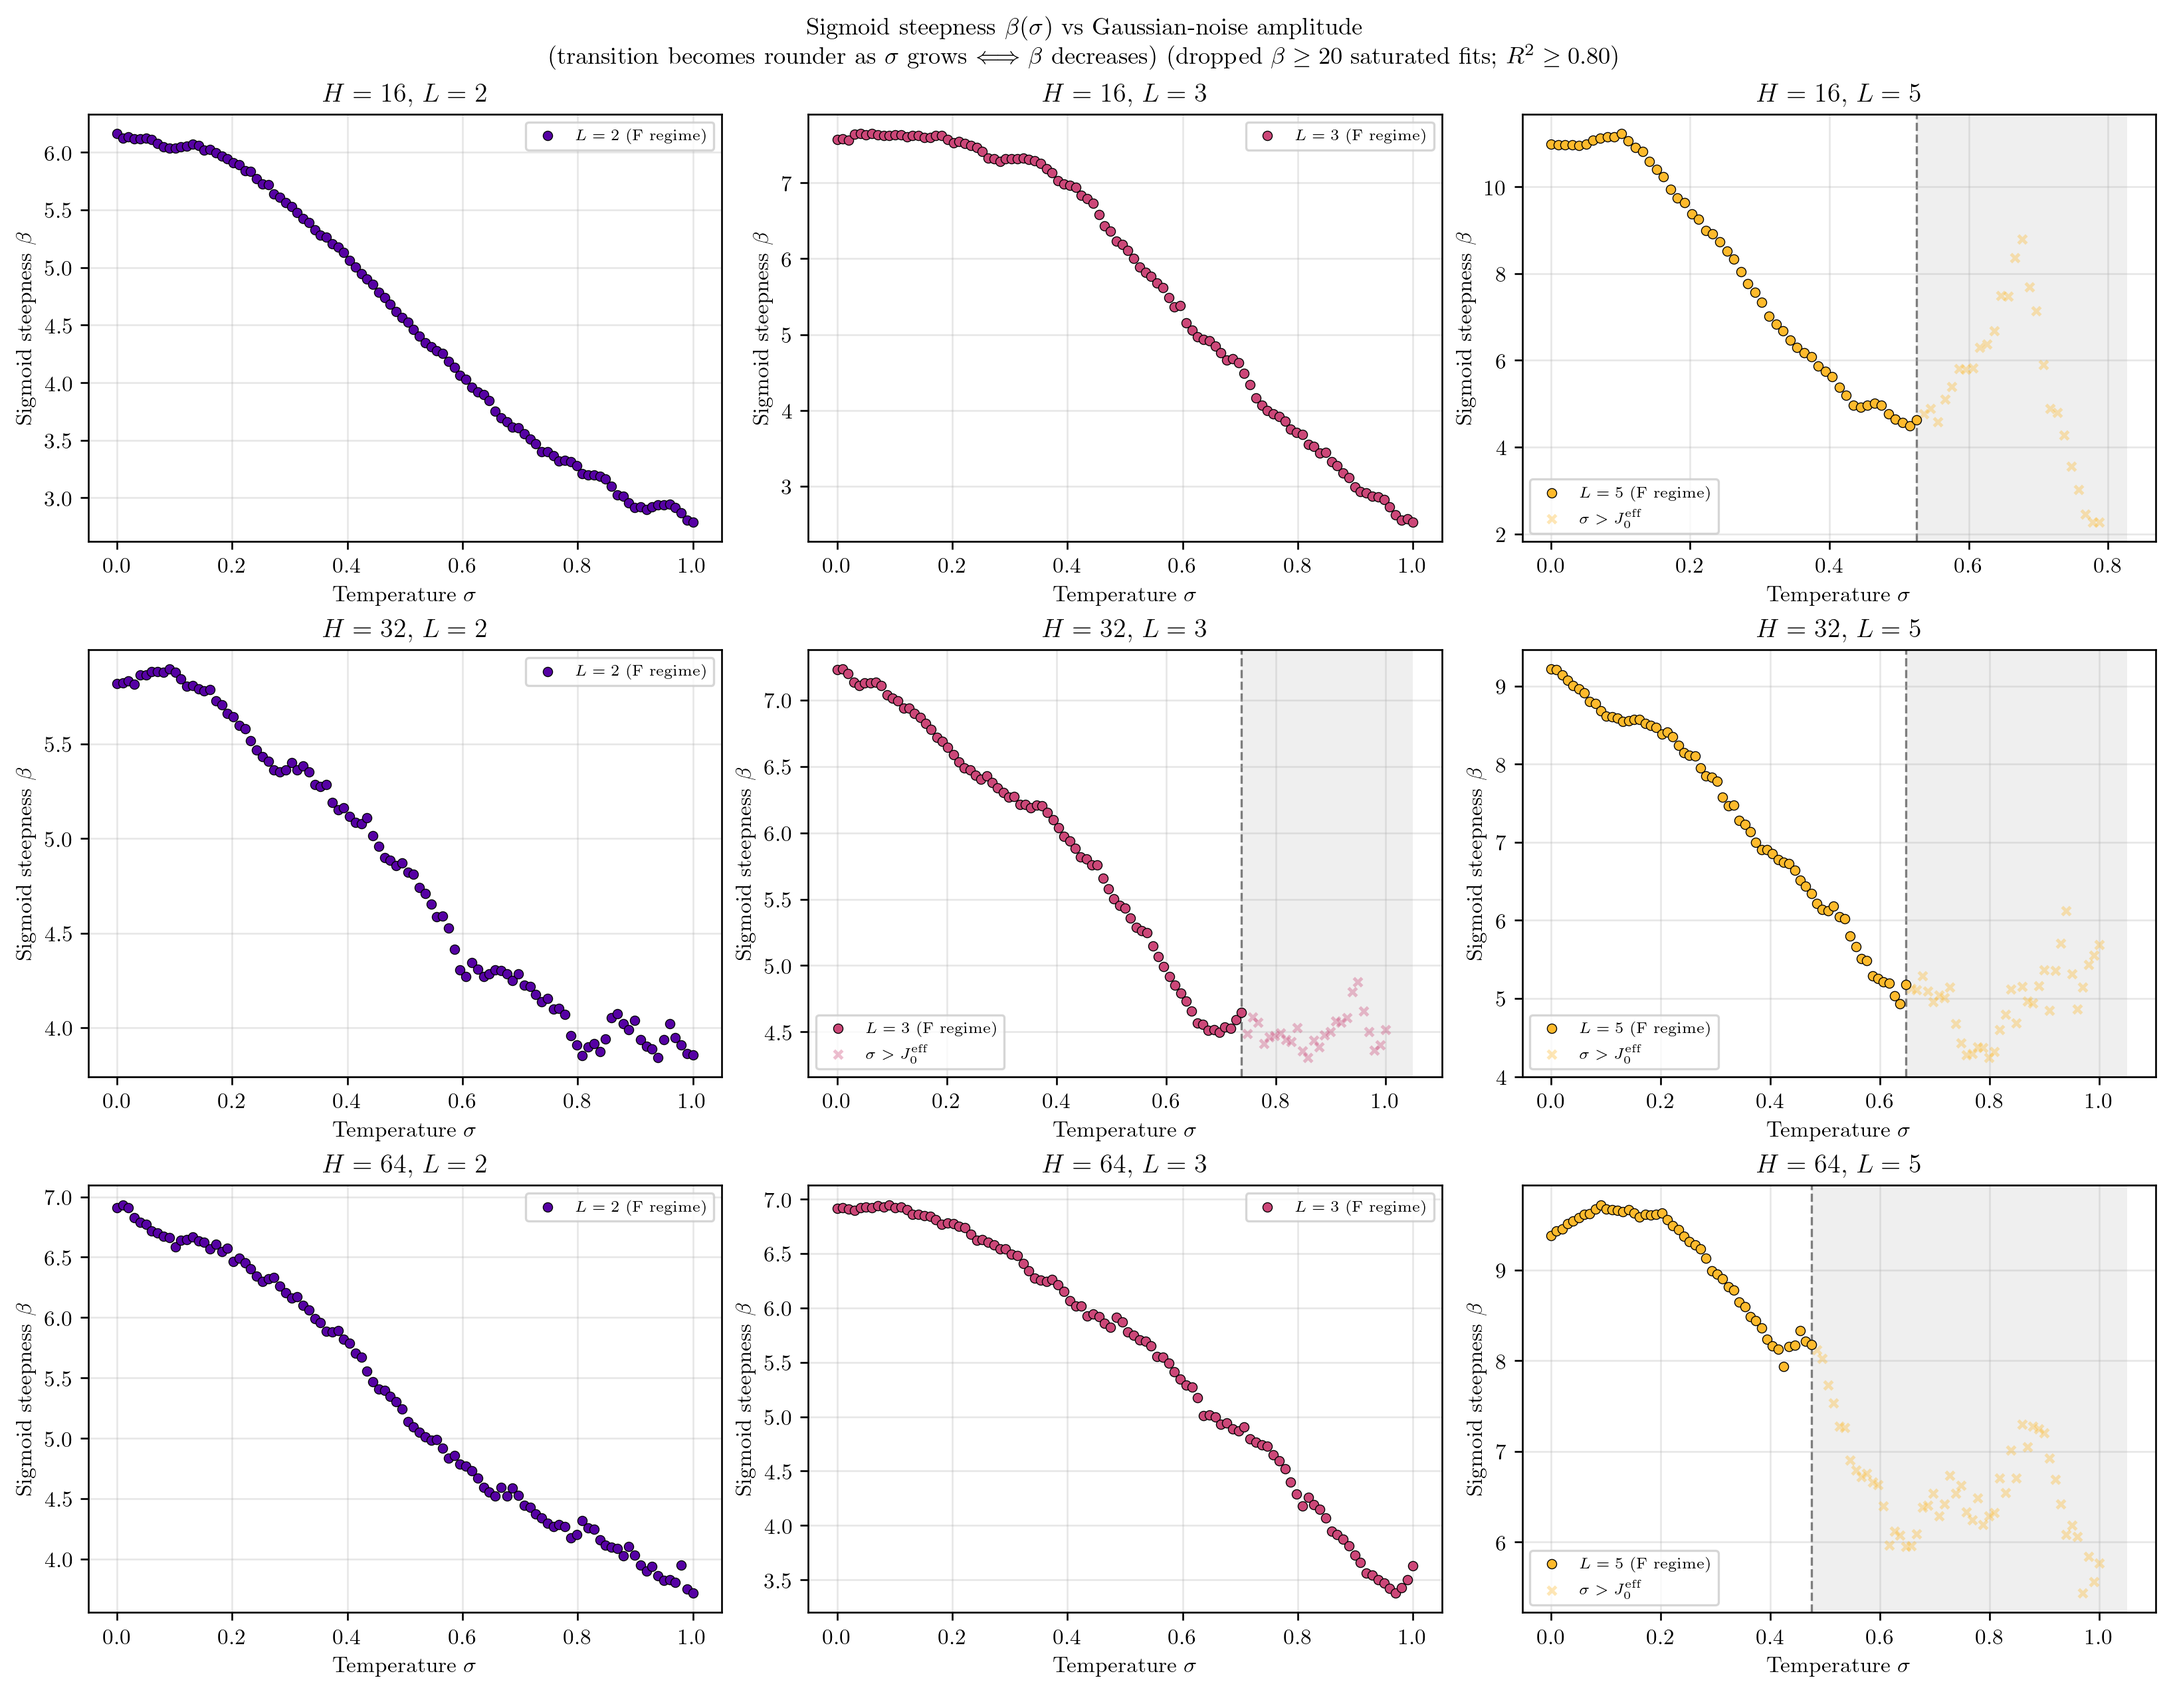
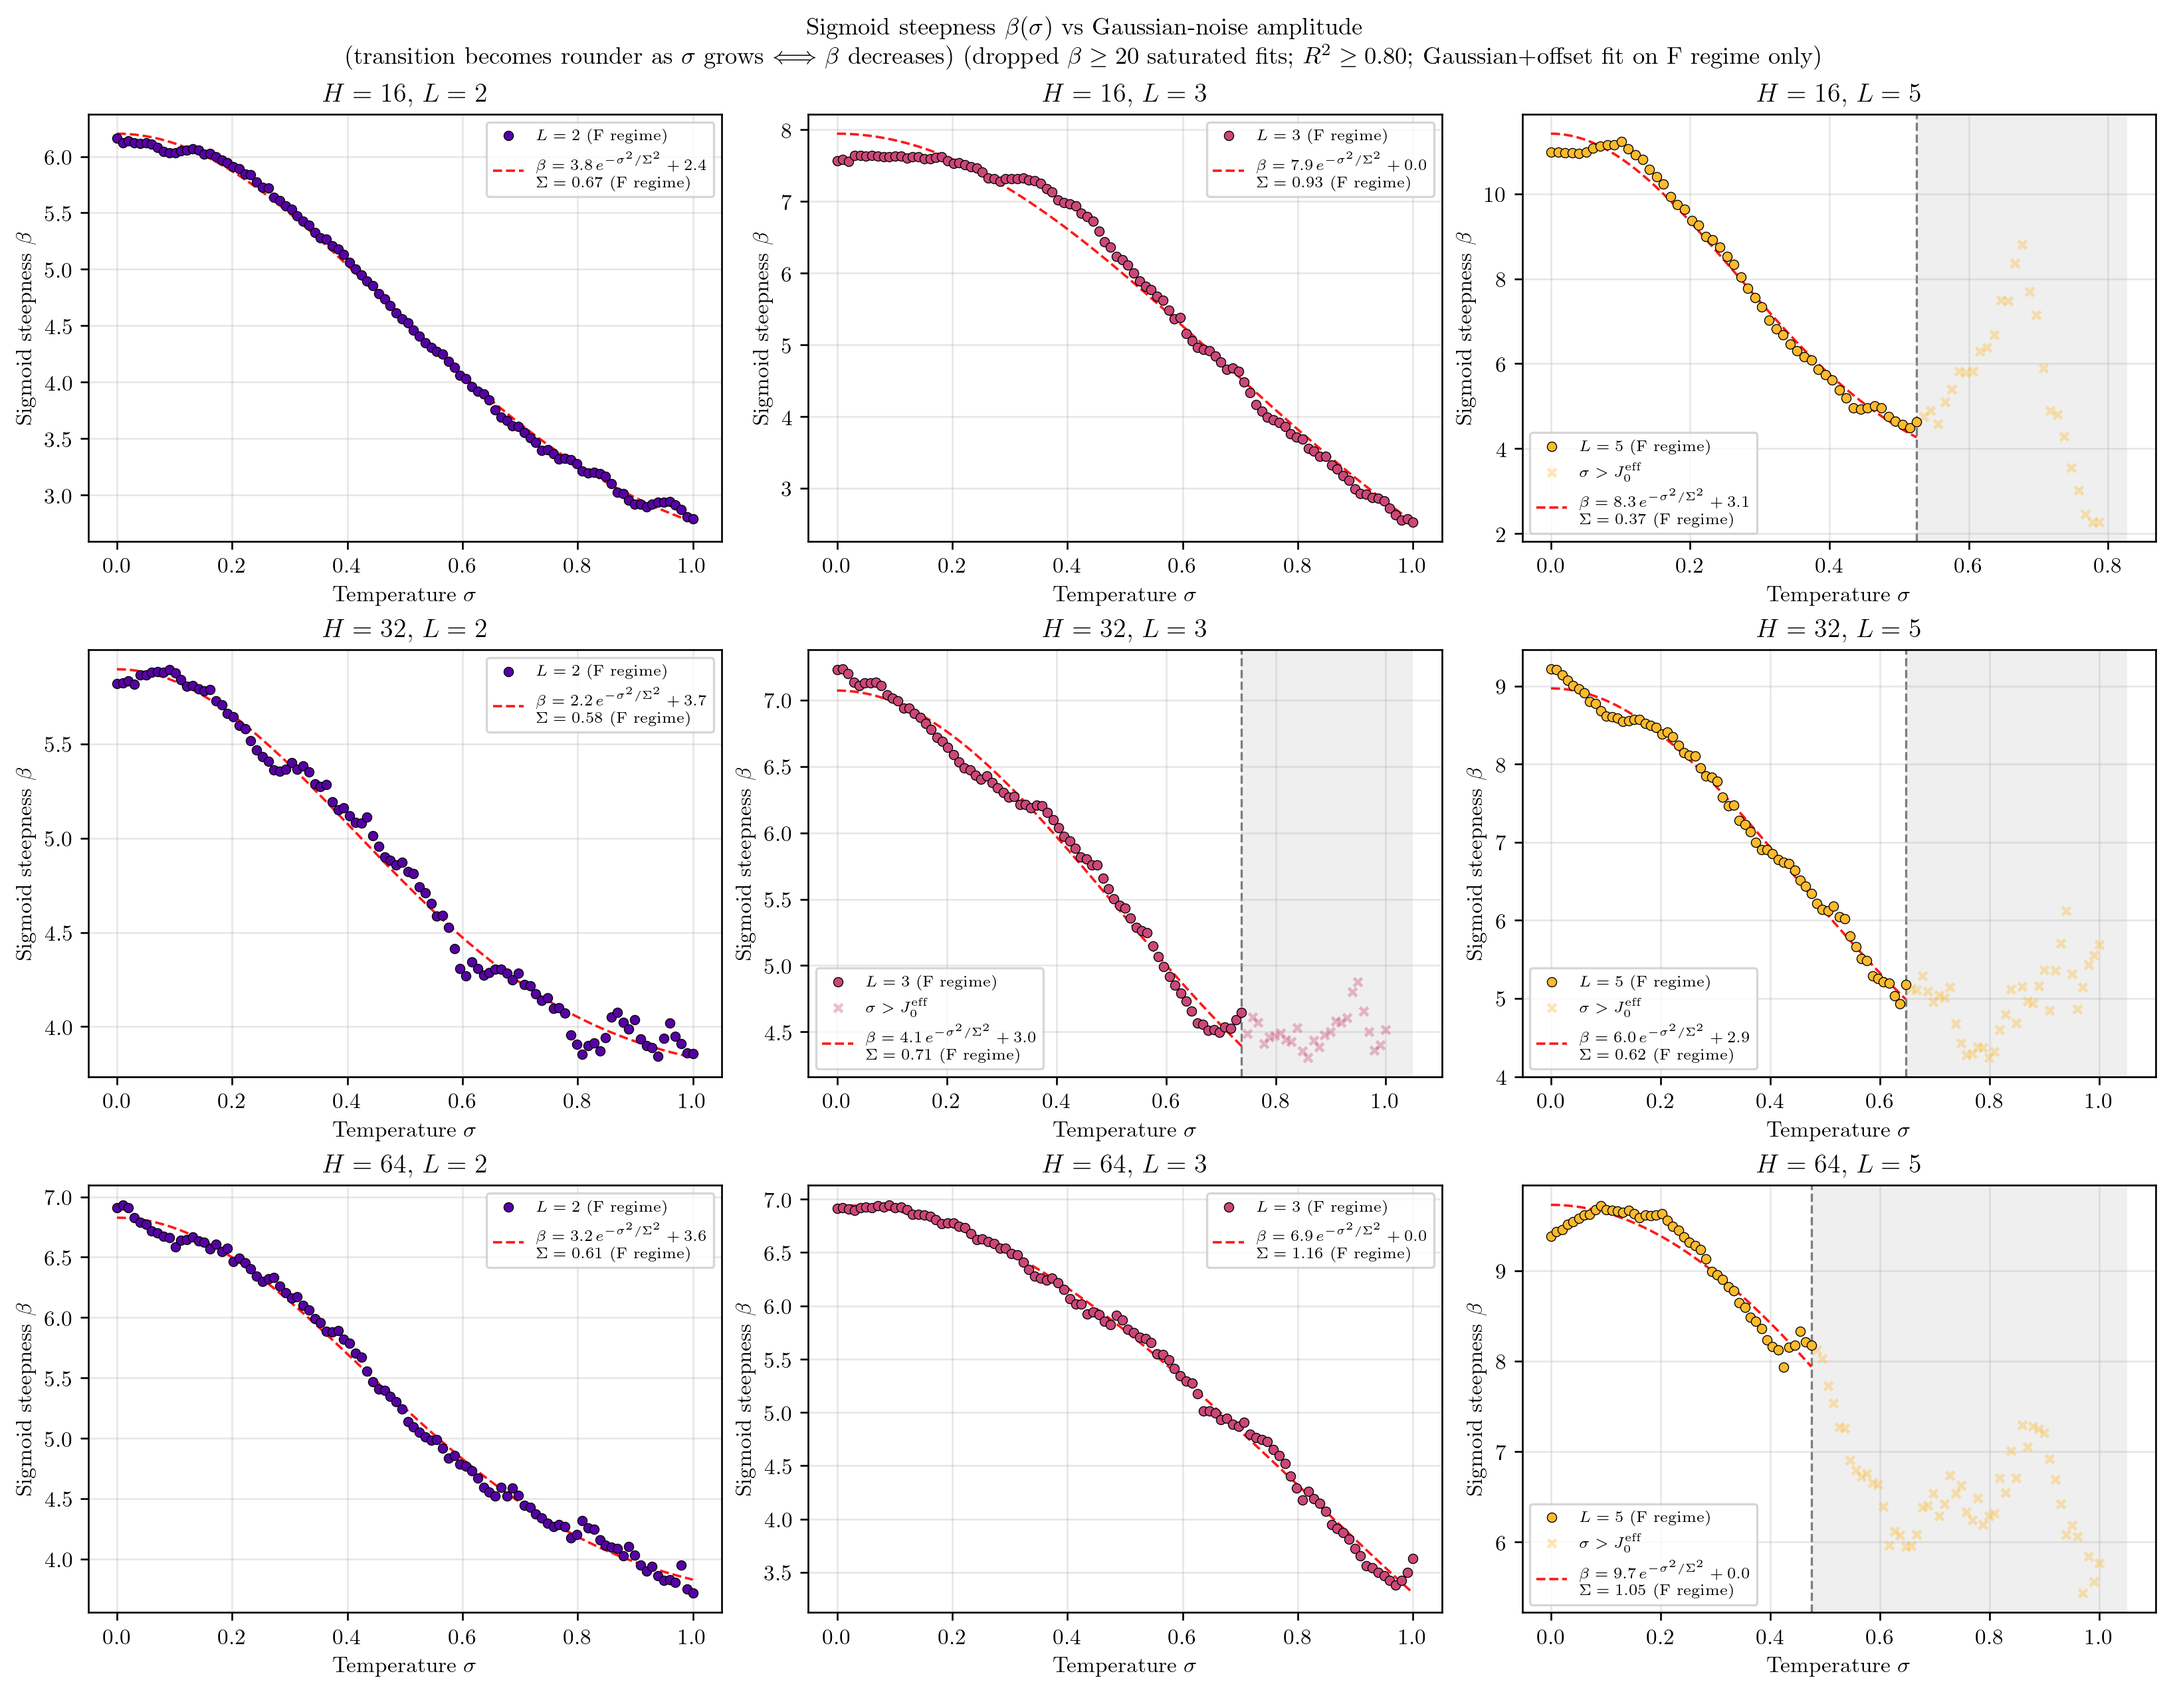
feat: beta(sigma) Gaussian+offset fit on the F regime
Fit each per-cell beta(sigma) curve to
    beta(sigma) = a * exp(-sigma^2 / Sigma^2) + b
using scipy.optimize.curve_fit, restricted to the F-regime data
(same residual-based cutoff as critical_line.png).

The offset b lets the model capture the asymptotic residual sharpness
that a pure-Gaussian decay misses. Empirically Sigma lands in
~0.6-1.0 across MNIST and CIFAR-ResNet -- a clean and roughly universal
scale at which the rounding window doubles.

diff --git a/temperature_pruning/plot_beta_vs_sigma.py b/temperature_pruning/plot_beta_vs_sigma.py
@@ -24,8 +24,14 @@ import numpy as np
 import matplotlib
 matplotlib.use('Agg')
 import matplotlib.pyplot as plt
+from scipy.optimize import curve_fit
 
 from .analysis import fit_critical_line, group_pc_by_cell
+
+
+def _gaussian_plus_const(sigma, a, Sigma, b):
+    """beta(sigma) = a * exp(-sigma^2 / Sigma^2) + b."""
+    return a * np.exp(-sigma ** 2 / (Sigma ** 2)) + b
 
 
 # scipy.optimize.curve_fit bound used in the sweep -- beta values at this
@@ -123,6 +129,32 @@ def plot_beta_vs_sigma(results_path, output_path,
                        color=L_colors[L], alpha=0.35, marker='x',
                        zorder=3, label=r'$\sigma > J_0^{\rm eff}$')
 
+        # Gaussian+offset fit beta = a * exp(-sigma^2 / Sigma^2) + b,
+        # restricted to the F regime.
+        if in_F.sum() >= 4 and (betas[in_F] > 0).all():
+            try:
+                s_F = sigmas[in_F]
+                b_F = betas[in_F]
+                p0 = (max(b_F.max() - b_F.min(), 0.1),  # a
+                      max(s_F.max() / 2.0, 0.1),         # Sigma
+                      float(b_F.min()))                  # b
+                bounds = ([0.0, 1e-3, 0.0],
+                          [b_F.max() * 5, s_F.max() * 5,
+                           b_F.max()])
+                popt, _pcov = curve_fit(
+                    _gaussian_plus_const, s_F, b_F,
+                    p0=p0, bounds=bounds, maxfev=10_000)
+                a_fit, Sigma_fit, b_fit = popt
+                x_fit = np.linspace(0.0, cutoff, 200)
+                ax.plot(x_fit, _gaussian_plus_const(x_fit, *popt),
+                        'r--', lw=1.1, alpha=0.9,
+                        label=(fr'$\beta = {a_fit:.1f}\,'
+                               fr'e^{{-\sigma^2/\Sigma^2}} + {b_fit:.1f}$'
+                               '\n'
+                               fr'$\Sigma = {Sigma_fit:.2f}$ (F regime)'))
+            except Exception:
+                pass
+
         ax.set_title(f'$H={H}$, $L={L}$')
         ax.set_xlabel(r'Temperature $\sigma$')
         ax.set_ylabel(r'Sigmoid steepness $\beta$')
@@ -134,9 +166,11 @@ def plot_beta_vs_sigma(results_path, output_path,
 
     if drop_saturated:
         cap_note = (rf'  (dropped $\beta \ge {BETA_CAP:.0f}$ saturated fits;'
-                    rf' $R^2 \ge {min_r2:.2f}$)')
+                    rf' $R^2 \ge {min_r2:.2f}$;'
+                    r' Gaussian+offset fit on F regime only)')
     else:
-        cap_note = rf'  ($R^2 \ge {min_r2:.2f}$)'
+        cap_note = (rf'  ($R^2 \ge {min_r2:.2f}$;'
+                    r' Gaussian+offset fit on F regime only)')
     fig.suptitle(r'Sigmoid steepness $\beta(\sigma)$ vs Gaussian-noise '
                  r'amplitude' + '\n'
                  r'(transition becomes rounder as $\sigma$ grows '
